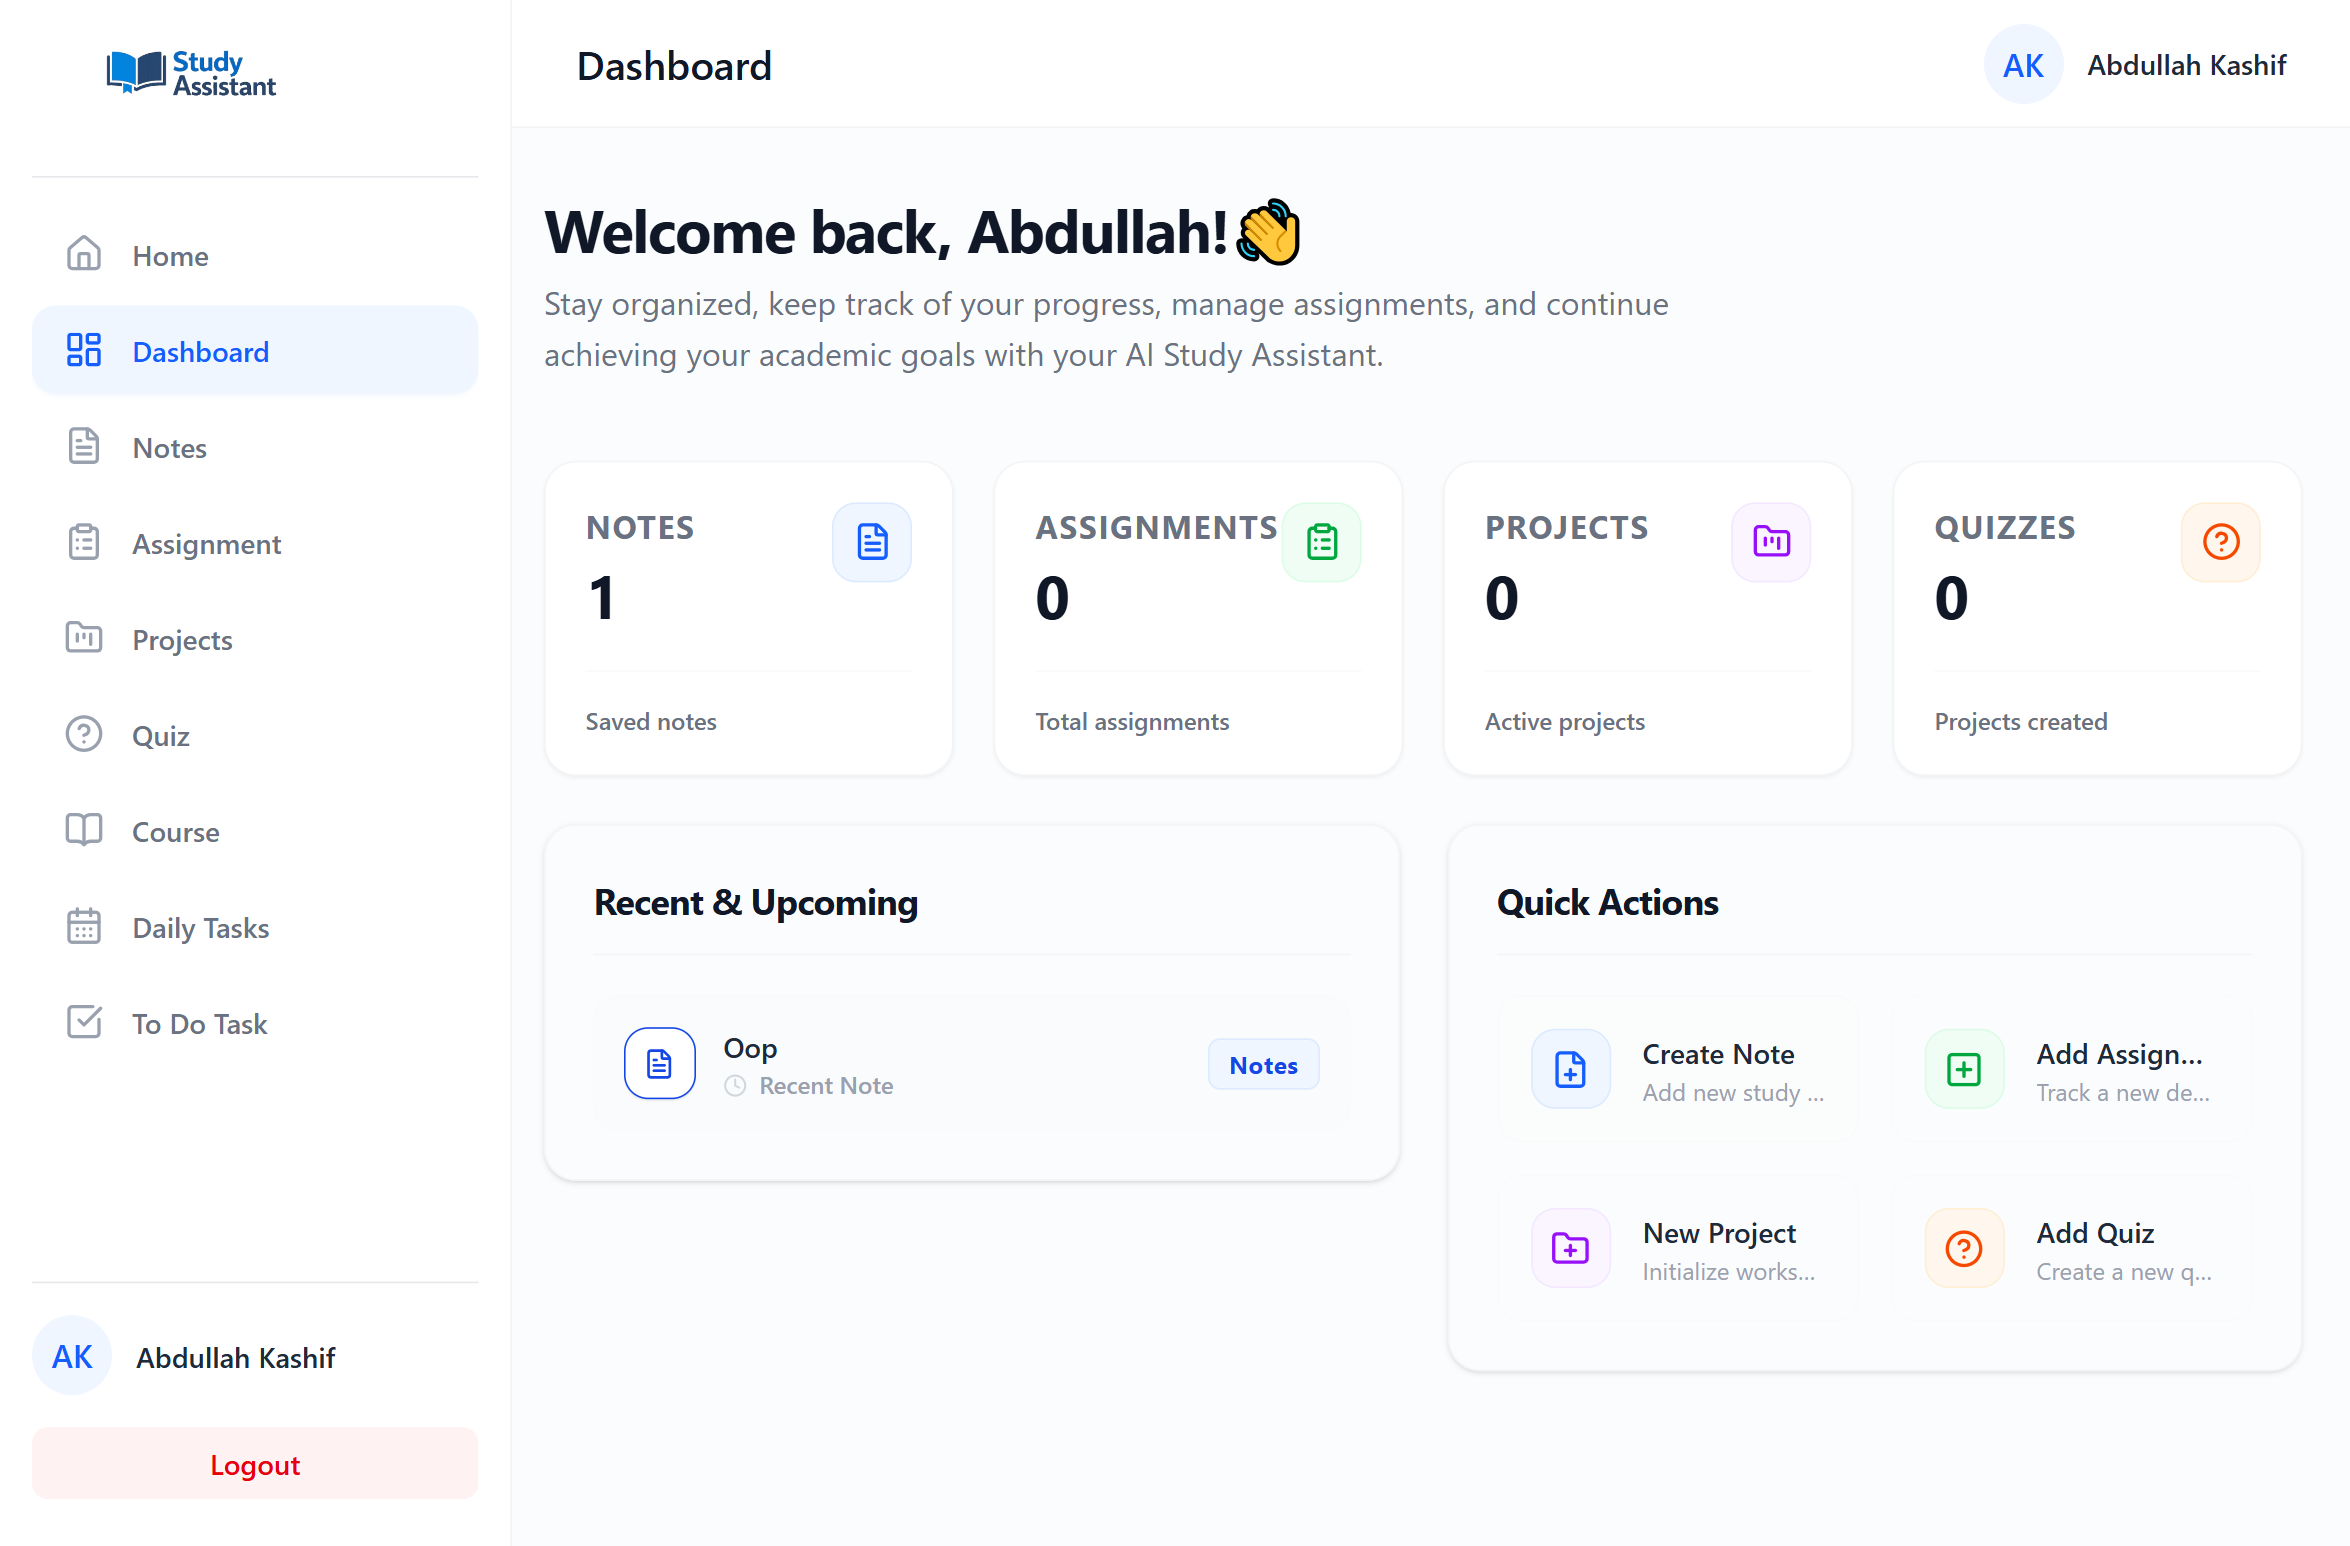
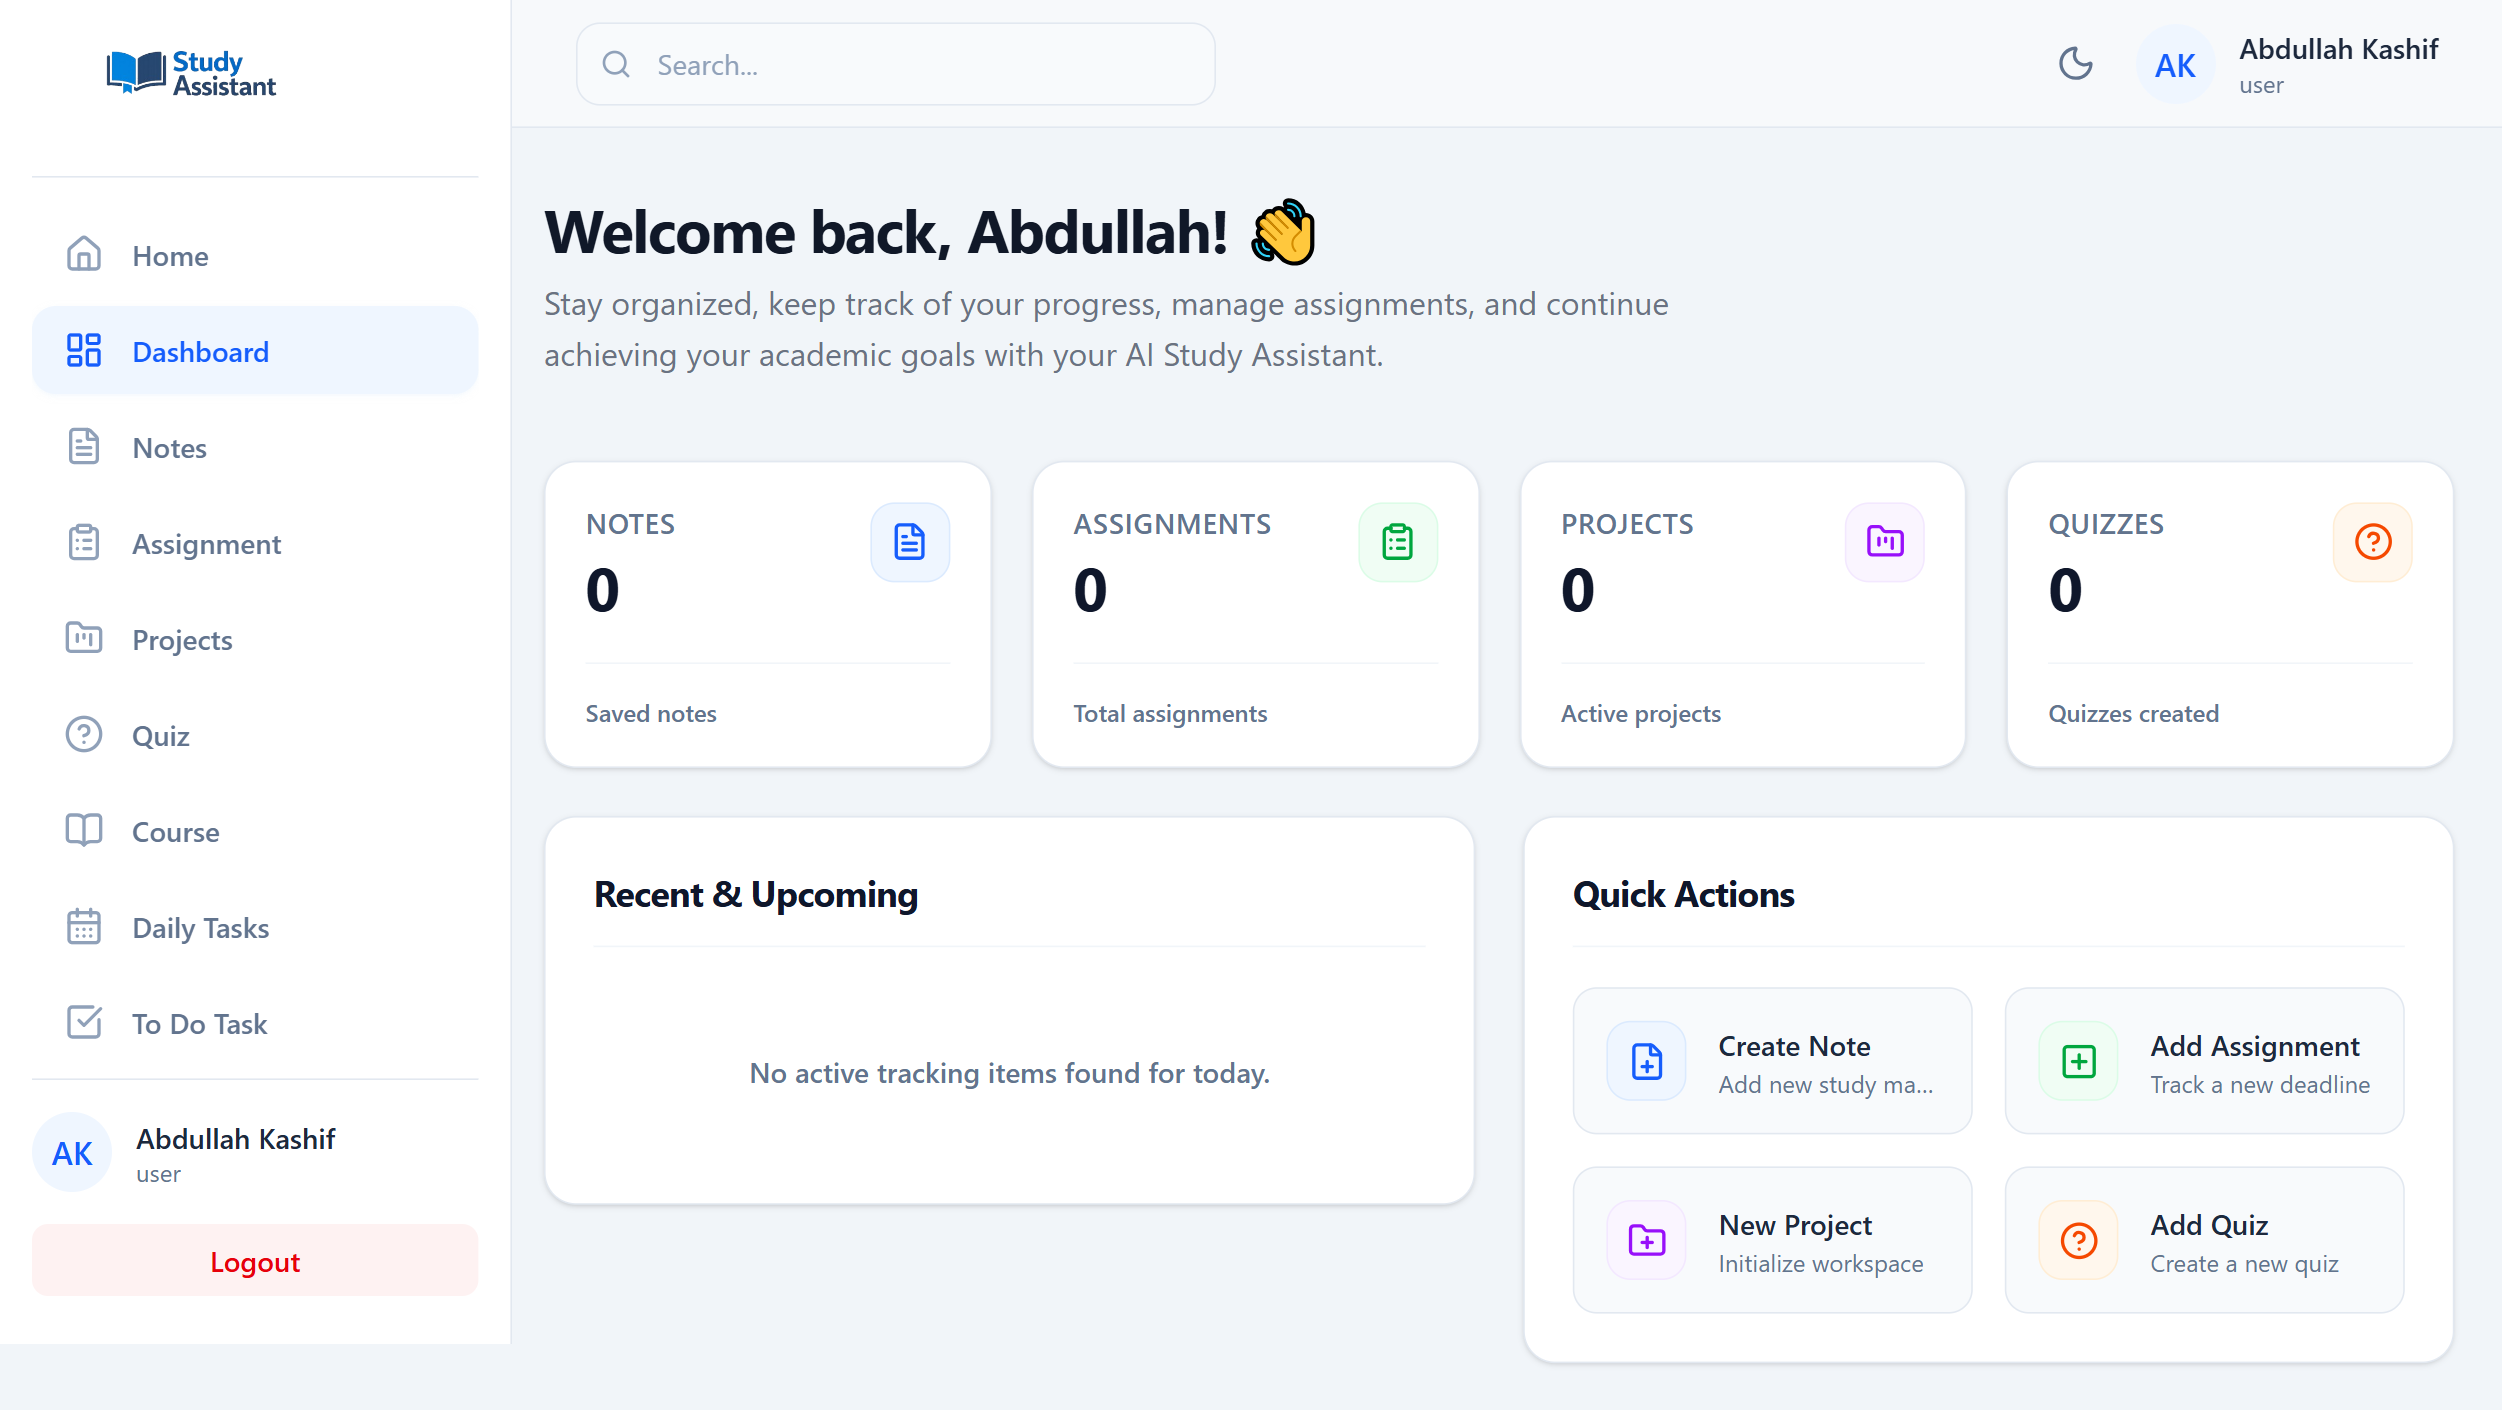
Restore Nodemailer email service and update dashboard image

diff --git a/backend/utils/sendEmail.js b/backend/utils/sendEmail.js
@@ -1,21 +1,23 @@
-const { Resend } = require("resend");
+const nodemailer = require("nodemailer");
 
-const resend = new Resend(process.env.RESEND_API_KEY);
+const transporter = nodemailer.createTransport({
+  service: "gmail",
+  auth: {
+    user: process.env.EMAIL_USER,
+    pass: process.env.EMAIL_PASS,
+  },
+});
 
 const sendEmail = async (to, subject, text) => {
   try {
-    const { data, error } = await resend.emails.send({
-      from: "Study Assistant <onboarding@resend.dev>",
+    const info = await transporter.sendMail({
+      from: `"Study Assistant" <${process.env.EMAIL_USER}>`,
       to,
       subject,
       text,
     });
 
-    if (error) {
-      throw new Error(error.message);
-    }
-
-    return data;
+    return info;
   } catch (error) {
     throw new Error(`Email sending failed: ${error.message}`);
   }
